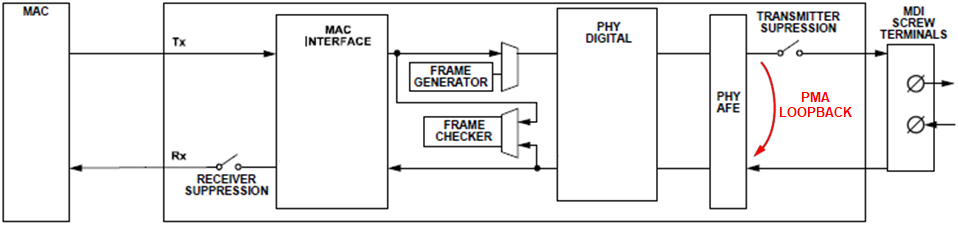
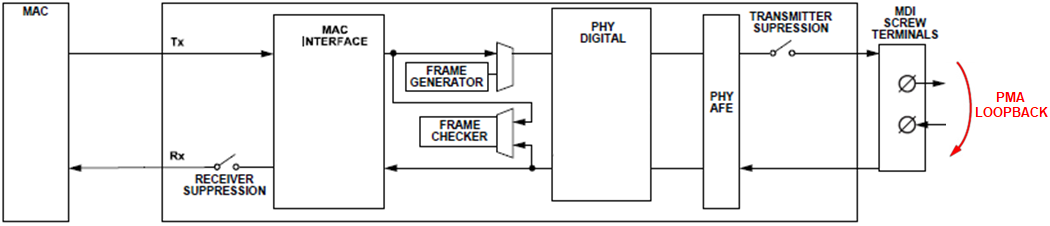
Initial Code - Added  Software Power Down in each Loopback Mode - Update PMA image in loopback

Changed region(s): [[0.1514, 0.0, 0.999, 0.9912], [0.0, 0.0, 0.0908, 0.9912]]

diff --git a/TargetInterface/FirmwareAPI.cs b/TargetInterface/FirmwareAPI.cs
@@ -3962,7 +3962,8 @@ namespace TargetInterface
                     this.WriteYodaRg("IndirectAccessAddressMap", "CRSM_SFT_PD", 1);
                     this.Sleep(0.1);
                     this.WriteYodaRg("IndirectAccessAddressMap", "AN_EN", 0);
-                    this.WriteYodaRg("IndirectAccessAddressMap", "AN_FRC_MODE_EN", 1);
+                    //this.WriteYodaRg("IndirectAccessAddressMap", "AN_FRC_MODE_EN", 1);
+                    this.WriteValueInRegisterAddress(0x078000, 1); //AN_FRC_MODE_EN
 
                     this.WriteYodaRg("IndirectAccessAddressMap", "B10L_LB_PMA_LOC_EN", 0);
                     this.WriteYodaRg("IndirectAccessAddressMap", "B10L_LB_PCS_EN", 1);
@@ -3980,7 +3981,8 @@ namespace TargetInterface
                     this.WriteYodaRg("IndirectAccessAddressMap", "CRSM_SFT_PD", 1);
                     this.Sleep(0.1);
                     this.WriteYodaRg("IndirectAccessAddressMap", "AN_EN", 0);
-                    this.WriteYodaRg("IndirectAccessAddressMap", "AN_FRC_MODE_EN", 1);
+                    //this.WriteYodaRg("IndirectAccessAddressMap", "AN_FRC_MODE_EN", 1);
+                    this.WriteValueInRegisterAddress(0x078000, 1); //AN_FRC_MODE_EN
 
                     this.WriteYodaRg("IndirectAccessAddressMap", "B10L_LB_PMA_LOC_EN", 1);
                     this.WriteYodaRg("IndirectAccessAddressMap", "B10L_LB_PCS_EN", 0);
@@ -3998,7 +4000,8 @@ namespace TargetInterface
                     this.WriteYodaRg("IndirectAccessAddressMap", "CRSM_SFT_PD", 1);
                     this.Sleep(0.1);
                     this.WriteYodaRg("IndirectAccessAddressMap", "AN_EN", 1);
-                    this.WriteYodaRg("IndirectAccessAddressMap", "AN_FRC_MODE_EN", 0);
+                    //this.WriteYodaRg("IndirectAccessAddressMap", "AN_FRC_MODE_EN", 0);
+                    this.WriteValueInRegisterAddress(0x078000, 0); //AN_FRC_MODE_EN
 
                     this.WriteYodaRg("IndirectAccessAddressMap", "B10L_LB_PMA_LOC_EN", 0);
                     this.WriteYodaRg("IndirectAccessAddressMap", "B10L_LB_PCS_EN", 0);
@@ -4016,27 +4019,29 @@ namespace TargetInterface
                     this.WriteYodaRg("IndirectAccessAddressMap", "CRSM_SFT_PD", 1);
                     this.Sleep(0.1);
                     this.WriteYodaRg("IndirectAccessAddressMap", "AN_EN", 1);
-                    this.WriteYodaRg("IndirectAccessAddressMap", "AN_FRC_MODE_EN", 0);
+                    //this.WriteYodaRg("IndirectAccessAddressMap", "AN_FRC_MODE_EN", 0);
+                    this.WriteValueInRegisterAddress(0x078000, 0); //AN_FRC_MODE_EN
 
                     this.WriteYodaRg("IndirectAccessAddressMap", "B10L_LB_PMA_LOC_EN", 0);
                     this.WriteYodaRg("IndirectAccessAddressMap", "B10L_LB_PCS_EN", 0);
                     this.WriteYodaRg("IndirectAccessAddressMap", "MAC_IF_LB_EN", 0);
+
                     this.WriteYodaRg("IndirectAccessAddressMap", "MAC_IF_REM_LB_EN", 1);
                     this.WriteYodaRg("IndirectAccessAddressMap", "RMII_TXD_CHK_EN", 0);
 
                     this.WriteYodaRg("IndirectAccessAddressMap", "CRSM_SFT_PD", 0);
 
                     // Rx Suppression
-                    //if (isolateRx_st)
-                    //{
-                    //    this.WriteYodaRg("IndirectAccessAddressMap", "MAC_IF_REM_LB_RX_SUP_EN", 1);
-                    //    this.Info("    SPE PHY Loopback configured as MAC Interface Remote loopback - Rx suppressed");
-                    //}
-                    //else
-                    //{
-                    //    this.WriteYodaRg("IndirectAccessAddressMap", "MAC_IF_REM_LB_RX_SUP_EN", 0);
-                    //    this.Info("    SPE PHY Loopback configured as MAC Interface Remote loopback - Rx not suppressed");
-                    //}
+                    if (isolateRx_st)
+                    {
+                        this.WriteYodaRg("IndirectAccessAddressMap", "MAC_IF_REM_LB_RX_SUP_EN", 1);
+                        this.Info("    SPE PHY Loopback configured as MAC Interface Remote loopback - Rx suppressed");
+                    }
+                    else
+                    {
+                        this.WriteYodaRg("IndirectAccessAddressMap", "MAC_IF_REM_LB_RX_SUP_EN", 0);
+                        this.Info("    SPE PHY Loopback configured as MAC Interface Remote loopback - Rx not suppressed");
+                    }
 
                     break;
 
@@ -4045,7 +4050,8 @@ namespace TargetInterface
                     this.WriteYodaRg("IndirectAccessAddressMap", "CRSM_SFT_PD", 1);
                     this.Sleep(0.1);
                     this.WriteYodaRg("IndirectAccessAddressMap", "AN_EN", 1);
-                    this.WriteYodaRg("IndirectAccessAddressMap", "AN_FRC_MODE_EN", 0);
+                    //this.WriteYodaRg("IndirectAccessAddressMap", "AN_FRC_MODE_EN", 0);
+                    this.WriteValueInRegisterAddress(0x078000, 0); //AN_FRC_MODE_EN
 
                     this.WriteYodaRg("IndirectAccessAddressMap", "B10L_LB_PMA_LOC_EN", 0);
                     this.WriteYodaRg("IndirectAccessAddressMap", "B10L_LB_PCS_EN", 0);
@@ -4056,30 +4062,33 @@ namespace TargetInterface
                     this.WriteYodaRg("IndirectAccessAddressMap", "CRSM_SFT_PD", 0);
 
                     // Tx Suppression
-                    //if (lbTxSup_st)
-                    //{
-                    //    this.WriteYodaRg("IndirectAccessAddressMap", "MAC_IF_LB_TX_SUP_EN", 1);
-                    //    this.Info("    SPE PHY Loopback configured as MAC Interface loopback - Tx suppressed");
-                    //}
-                    //else
-                    //{
-                    //    this.WriteYodaRg("IndirectAccessAddressMap", "MAC_IF_LB_TX_SUP_EN", 0);
-                    //    this.Info("    SPE PHY Loopback configured as MAC Interface loopback - Tx not suppressed");
-                    //}
+                    if (lbTxSup_st)
+                    {
+                        this.WriteYodaRg("IndirectAccessAddressMap", "MAC_IF_LB_TX_SUP_EN", 1);
+                        this.Info("    SPE PHY Loopback configured as MAC Interface loopback - Tx suppressed");
+                    }
+                    else
+                    {
+                        this.WriteYodaRg("IndirectAccessAddressMap", "MAC_IF_LB_TX_SUP_EN", 0);
+                        this.Info("    SPE PHY Loopback configured as MAC Interface loopback - Tx not suppressed");
+                    }
 
                     break;
 
                 // OFF
                 case LoopBackMode.OFF:
-                    this.WriteYodaRg("IndirectAccessAddressMap", "CRSM_SFT_PD", 0);
+                    this.WriteYodaRg("IndirectAccessAddressMap", "CRSM_SFT_PD", 1);
                     this.WriteYodaRg("IndirectAccessAddressMap", "AN_EN", 1);
-                    this.WriteYodaRg("IndirectAccessAddressMap", "AN_FRC_MODE_EN", 0);
+                    //this.WriteYodaRg("IndirectAccessAddressMap", "AN_FRC_MODE_EN", 0);
+                    this.WriteValueInRegisterAddress(0x078000, 0); //AN_FRC_MODE_EN
 
                     this.WriteYodaRg("IndirectAccessAddressMap", "B10L_LB_PMA_LOC_EN", 0);
                     this.WriteYodaRg("IndirectAccessAddressMap", "B10L_LB_PCS_EN", 0);
                     this.WriteYodaRg("IndirectAccessAddressMap", "MAC_IF_LB_EN", 0);
                     this.WriteYodaRg("IndirectAccessAddressMap", "MAC_IF_REM_LB_EN", 0);
                     this.WriteYodaRg("IndirectAccessAddressMap", "RMII_TXD_CHK_EN", 0);
+
+                    this.WriteYodaRg("IndirectAccessAddressMap", "CRSM_SFT_PD", 0);
 
                     this.Info("    SPE PHY Loopback disabled");
                     break;
